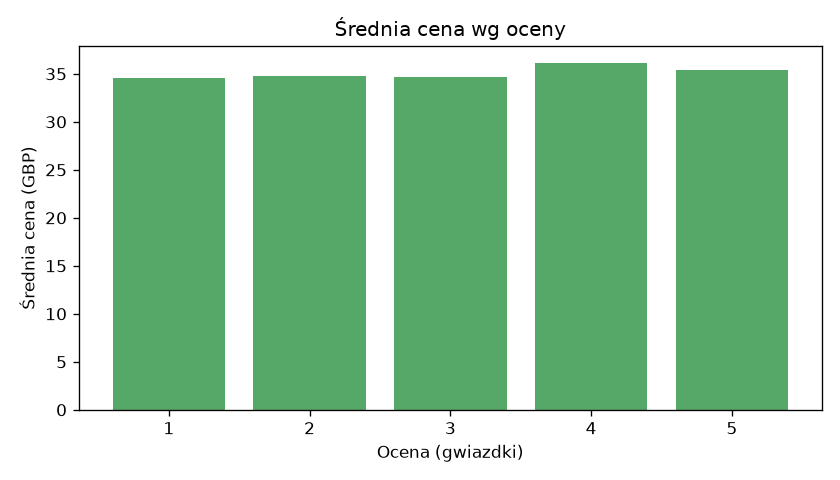
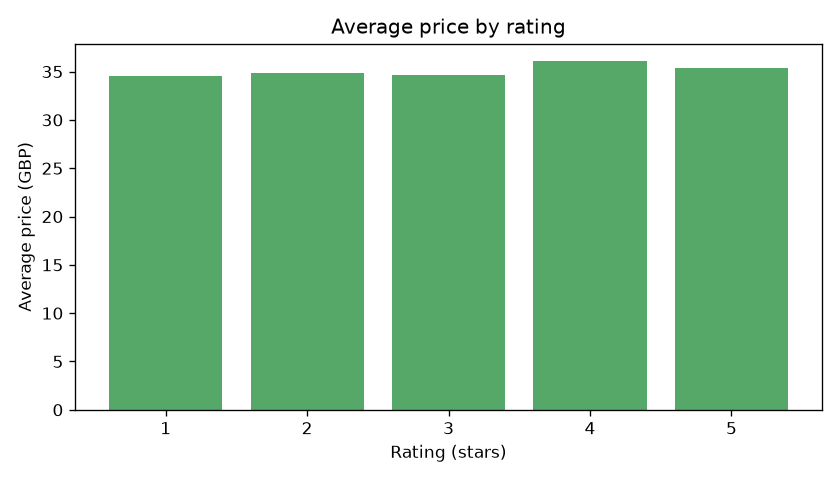
Update README and code comments

diff --git a/analysis.py b/analysis.py
@@ -1,4 +1,4 @@
-"""Analizuje książki zapisane w bazie SQLite i tworzy wykresy w folderze charts/."""
+"""Analyses the books stored in the SQLite database and creates charts in the charts/ folder."""
 import argparse
 import sqlite3
 from pathlib import Path
@@ -9,15 +9,15 @@ import matplotlib.pyplot as plt
 import pandas as pd
 
 QUERIES = {
-    "Średnia cena wg oceny": """
+    "Average price by rating": """
         SELECT rating, COUNT(*) AS books, ROUND(AVG(price_gbp), 2) AS avg_price
         FROM books GROUP BY rating ORDER BY rating""",
-    "Top 10 kategorii wg liczby książek": """
+    "Top 10 categories by number of books": """
         SELECT category, COUNT(*) AS books, ROUND(AVG(price_gbp), 2) AS avg_price,
                ROUND(AVG(rating), 2) AS avg_rating
         FROM books WHERE category IS NOT NULL
         GROUP BY category ORDER BY books DESC LIMIT 10""",
-    "5 najdroższych książek z oceną 5": """
+    "5 most expensive 5-star books": """
         SELECT title, price_gbp FROM books
         WHERE rating = 5 ORDER BY price_gbp DESC LIMIT 5""",
 }
@@ -39,7 +39,7 @@ def make_charts(df, out_dir):
 
     fig, ax = plt.subplots(figsize=(7, 4))
     ax.hist(df["price_gbp"], bins=20, color="#4C72B0", edgecolor="white")
-    ax.set(title="Rozkład cen książek", xlabel="Cena (GBP)", ylabel="Liczba książek")
+    ax.set(title="Book price distribution", xlabel="Price (GBP)", ylabel="Number of books")
     fig.tight_layout()
     fig.savefig(out_dir / "price_distribution.png", dpi=120)
     plt.close(fig)
@@ -47,7 +47,7 @@ def make_charts(df, out_dir):
     by_rating = df.groupby("rating")["price_gbp"].mean()
     fig, ax = plt.subplots(figsize=(7, 4))
     ax.bar(by_rating.index.astype(str), by_rating.values, color="#55A868")
-    ax.set(title="Średnia cena wg oceny", xlabel="Ocena (gwiazdki)", ylabel="Średnia cena (GBP)")
+    ax.set(title="Average price by rating", xlabel="Rating (stars)", ylabel="Average price (GBP)")
     fig.tight_layout()
     fig.savefig(out_dir / "price_by_rating.png", dpi=120)
     plt.close(fig)
@@ -56,27 +56,27 @@ def make_charts(df, out_dir):
         top = df["category"].value_counts().head(10).sort_values()
         fig, ax = plt.subplots(figsize=(7, 5))
         ax.barh(top.index, top.values, color="#C44E52")
-        ax.set(title="10 kategorii z największą liczbą książek", xlabel="Liczba książek")
+        ax.set(title="Top 10 categories by number of books", xlabel="Number of books")
         fig.tight_layout()
         fig.savefig(out_dir / "top_categories.png", dpi=120)
         plt.close(fig)
 
 
 def main():
-    parser = argparse.ArgumentParser(description="Analiza danych o książkach")
+    parser = argparse.ArgumentParser(description="Book data analysis")
     parser.add_argument("--db", default="books.db")
     parser.add_argument("--out", default="charts")
     args = parser.parse_args()
 
     df = load(args.db)
-    print(f"Liczba książek: {len(df)}")
-    print(f"Średnia cena: {df['price_gbp'].mean():.2f} GBP, mediana: {df['price_gbp'].median():.2f} GBP")
-    print(f"Dostępne w magazynie: {df['in_stock'].mean():.0%}")
-    print(f"Korelacja ocena–cena: {df['rating'].corr(df['price_gbp']):.3f}\n")
+    print(f"Number of books: {len(df)}")
+    print(f"Average price: {df['price_gbp'].mean():.2f} GBP, median: {df['price_gbp'].median():.2f} GBP")
+    print(f"In stock: {df['in_stock'].mean():.0%}")
+    print(f"Rating–price correlation: {df['rating'].corr(df['price_gbp']):.3f}\n")
     for name, result in run_queries(args.db).items():
         print(f"== {name}\n{result.to_string(index=False)}\n")
     make_charts(df, args.out)
-    print(f"Wykresy zapisane w folderze {args.out}/")
+    print(f"Charts saved to {args.out}/")
 
 
 if __name__ == "__main__":

diff --git a/scraper.py b/scraper.py
@@ -1,6 +1,6 @@
-"""Pobiera dane o książkach ze strony books.toscrape.com i zapisuje je do bazy SQLite.
+"""Scrapes book data from books.toscrape.com and saves it to an SQLite database.
 
-books.toscrape.com to strona stworzona specjalnie do nauki web scrapingu.
+books.toscrape.com is a site built specifically for practising web scraping.
 """
 import argparse
 import sqlite3
@@ -16,7 +16,7 @@ RATINGS = {"One": 1, "Two": 2, "Three": 3, "Four": 4, "Five": 5}
 
 
 def parse_books(html, page_url):
-    """Zwraca listę książek z jednej strony katalogu oraz adres następnej strony."""
+    """Returns the books from one catalogue page and the URL of the next page."""
     soup = BeautifulSoup(html, "html.parser")
     books = []
     for card in soup.select("article.product_pod"):
@@ -37,7 +37,7 @@ def parse_books(html, page_url):
 
 
 def parse_category(html):
-    """Ze strony szczegółów książki odczytuje jej kategorię."""
+    """Reads the book's category from its detail page."""
     soup = BeautifulSoup(html, "html.parser")
     crumbs = soup.select("ul.breadcrumb li a")
     return crumbs[-1].get_text(strip=True) if len(crumbs) >= 3 else None
@@ -58,7 +58,7 @@ def init_db(conn):
 
 
 def save_books(conn, books):
-    """Zapisuje książki; te same adresy URL nie są dublowane."""
+    """Saves books; a URL that is already stored is not duplicated."""
     conn.executemany(
         """INSERT OR IGNORE INTO books (title, url, price_gbp, rating, in_stock, category)
            VALUES (:title, :url, :price_gbp, :rating, :in_stock, :category)""",
@@ -69,7 +69,7 @@ def save_books(conn, books):
 
 def scrape(db_path, max_pages, delay, with_categories):
     session = requests.Session()
-    session.headers["User-Agent"] = "book-market-scraper (projekt edukacyjny)"
+    session.headers["User-Agent"] = "book-market-scraper (educational project)"
     conn = sqlite3.connect(db_path)
     init_db(conn)
 
@@ -89,21 +89,21 @@ def scrape(db_path, max_pages, delay, with_categories):
                 book["category"] = parse_category(detail.text)
                 time.sleep(delay)
         save_books(conn, books)
-        print(f"Strona {page}: zapisano {len(books)} książek")
+        print(f"Page {page}: saved {len(books)} books")
         time.sleep(delay)
 
     total = conn.execute("SELECT COUNT(*) FROM books").fetchone()[0]
     conn.close()
-    print(f"Gotowe. W bazie jest {total} książek.")
+    print(f"Done. The database contains {total} books.")
 
 
 def main():
-    parser = argparse.ArgumentParser(description="Scraper książek z books.toscrape.com")
-    parser.add_argument("--db", default="books.db", help="plik bazy SQLite")
-    parser.add_argument("--pages", type=int, default=50, help="ile stron katalogu pobrać (max 50)")
-    parser.add_argument("--delay", type=float, default=0.5, help="przerwa między zapytaniami w sekundach")
+    parser = argparse.ArgumentParser(description="Book scraper for books.toscrape.com")
+    parser.add_argument("--db", default="books.db", help="SQLite database file")
+    parser.add_argument("--pages", type=int, default=50, help="how many catalogue pages to scrape (max 50)")
+    parser.add_argument("--delay", type=float, default=0.5, help="pause between requests in seconds")
     parser.add_argument("--no-categories", action="store_true",
-                        help="nie pobieraj kategorii (szybciej, 1 zapytanie na stronę)")
+                        help="skip categories (faster, 1 request per page)")
     args = parser.parse_args()
     scrape(args.db, args.pages, args.delay, not args.no_categories)
 

diff --git a/tests/test_scraper.py b/tests/test_scraper.py
@@ -45,7 +45,7 @@ def test_save_books_skips_duplicates_and_analysis_runs(tmp_path):
     conn.close()
 
     results = run_queries(db)
-    assert results["Top 10 kategorii wg liczby książek"].iloc[0]["books"] == 2
+    assert results["Top 10 categories by number of books"].iloc[0]["books"] == 2
 
     with sqlite3.connect(db) as c:
         df = pd.read_sql_query("SELECT * FROM books", c)

diff --git a/README.md b/README.md
@@ -1,42 +1,42 @@
 # Book Market Scraper
 
-Scraper, który pobiera dane o 1000 książkach ze sklepu [books.toscrape.com](https://books.toscrape.com) (strona stworzona do nauki scrapingu), zapisuje je w bazie **SQLite**, a potem analizuje je w **SQL i pandas** i rysuje wykresy.
+A scraper that collects data on 1000 books from [books.toscrape.com](https://books.toscrape.com) (a site built for practising web scraping), stores it in an **SQLite** database, then analyses it with **SQL and pandas** and draws charts.
 
 ## Problem
-Księgarnia internetowa chce wiedzieć, jak wyglądają ceny u konkurencji: ile kosztują książki w poszczególnych kategoriach i czy lepiej oceniane tytuły są droższe.
+An online bookstore wants to know what competitor prices look like: how much books cost in each category and whether better-rated titles are more expensive.
 
-## Co robi projekt
-1. `scraper.py` przechodzi po 50 stronach katalogu, odczytuje tytuł, cenę, ocenę, dostępność i kategorię, i zapisuje je w `books.db`. Nie dubluje rekordów przy ponownym uruchomieniu.
-2. `analysis.py` liczy statystyki zapytaniami SQL i w pandas, a wykresy zapisuje w `charts/`.
+## What the project does
+1. `scraper.py` walks through 50 catalogue pages, reads each book's title, price, rating, availability and category, and saves them to `books.db`. Running it again does not create duplicate records.
+2. `analysis.py` computes statistics with SQL queries and pandas and saves charts to `charts/`.
 
-## Technologie
+## Tech stack
 Python, requests, BeautifulSoup, SQLite, pandas, matplotlib, pytest
 
-## Jak uruchomić
+## How to run
 ```bash
 python -m venv .venv
 # Windows: .venv\Scripts\activate    macOS/Linux: source .venv/bin/activate
 pip install -r requirements.txt
-python scraper.py            # pełne pobranie (ok. 1000 zapytań, kilkanaście minut)
-python scraper.py --pages 5 --no-categories   # szybki test
+python scraper.py            # full scrape (about 1000 requests, roughly 15 minutes)
+python scraper.py --pages 5 --no-categories   # quick test
 python analysis.py
-python -m pytest             # testy
+python -m pytest             # tests
 ```
 
-## Wyniki
-Dane z pełnego pobrania: 1000 książek z 50 stron katalogu.
+## Results
+Data from a full scrape: 1000 books from 50 catalogue pages.
 
-- **Średnia cena:** 35,07 GBP, **mediana:** 35,98 GBP. Ceny rozkładają się dość równomiernie w przedziale ok. 10–60 GBP.
-- **Ocena a cena:** korelacja wynosi **0,028**, czyli praktycznie zero. Lepiej oceniane książki nie są droższe: średnia cena dla każdej liczby gwiazdek mieści się w przedziale 34,56–36,09 GBP.
-- **Kategorie:** najwięcej książek ma kategoria **Default** (152), a z kategorii tematycznych **Nonfiction** (110) i **Sequential Art** (75). Najdroższa średnio z top 10 jest **Fantasy** (39,59 GBP).
-- Wszystkie książki są dostępne w magazynie.
+- **Average price:** £35.07, **median:** £35.98. Prices are spread fairly evenly between about £10 and £60.
+- **Rating vs. price:** the correlation is **0.028**, i.e. practically zero. Better-rated books are not more expensive: the average price for every star rating falls between £34.56 and £36.09.
+- **Categories:** the largest category is **Default** (152 books), followed by the subject categories **Nonfiction** (110) and **Sequential Art** (75). The most expensive on average in the top 10 is **Fantasy** (£39.59).
+- All books are in stock.
 
-![Rozkład cen](charts/price_distribution.png)
+![Price distribution](charts/price_distribution.png)
 
-![Średnia cena wg oceny](charts/price_by_rating.png)
+![Average price by rating](charts/price_by_rating.png)
 
-![Top 10 kategorii](charts/top_categories.png)
+![Top 10 categories](charts/top_categories.png)
 
-## Co bym dodał(a) dalej
-- harmonogram (np. codzienne pobieranie) i śledzenie zmian cen w czasie
-- dashboard w Power BI lub Streamlit
+## What I would add next
+- scheduling (e.g. a daily scrape) and tracking price changes over time
+- a dashboard in Power BI or Streamlit
